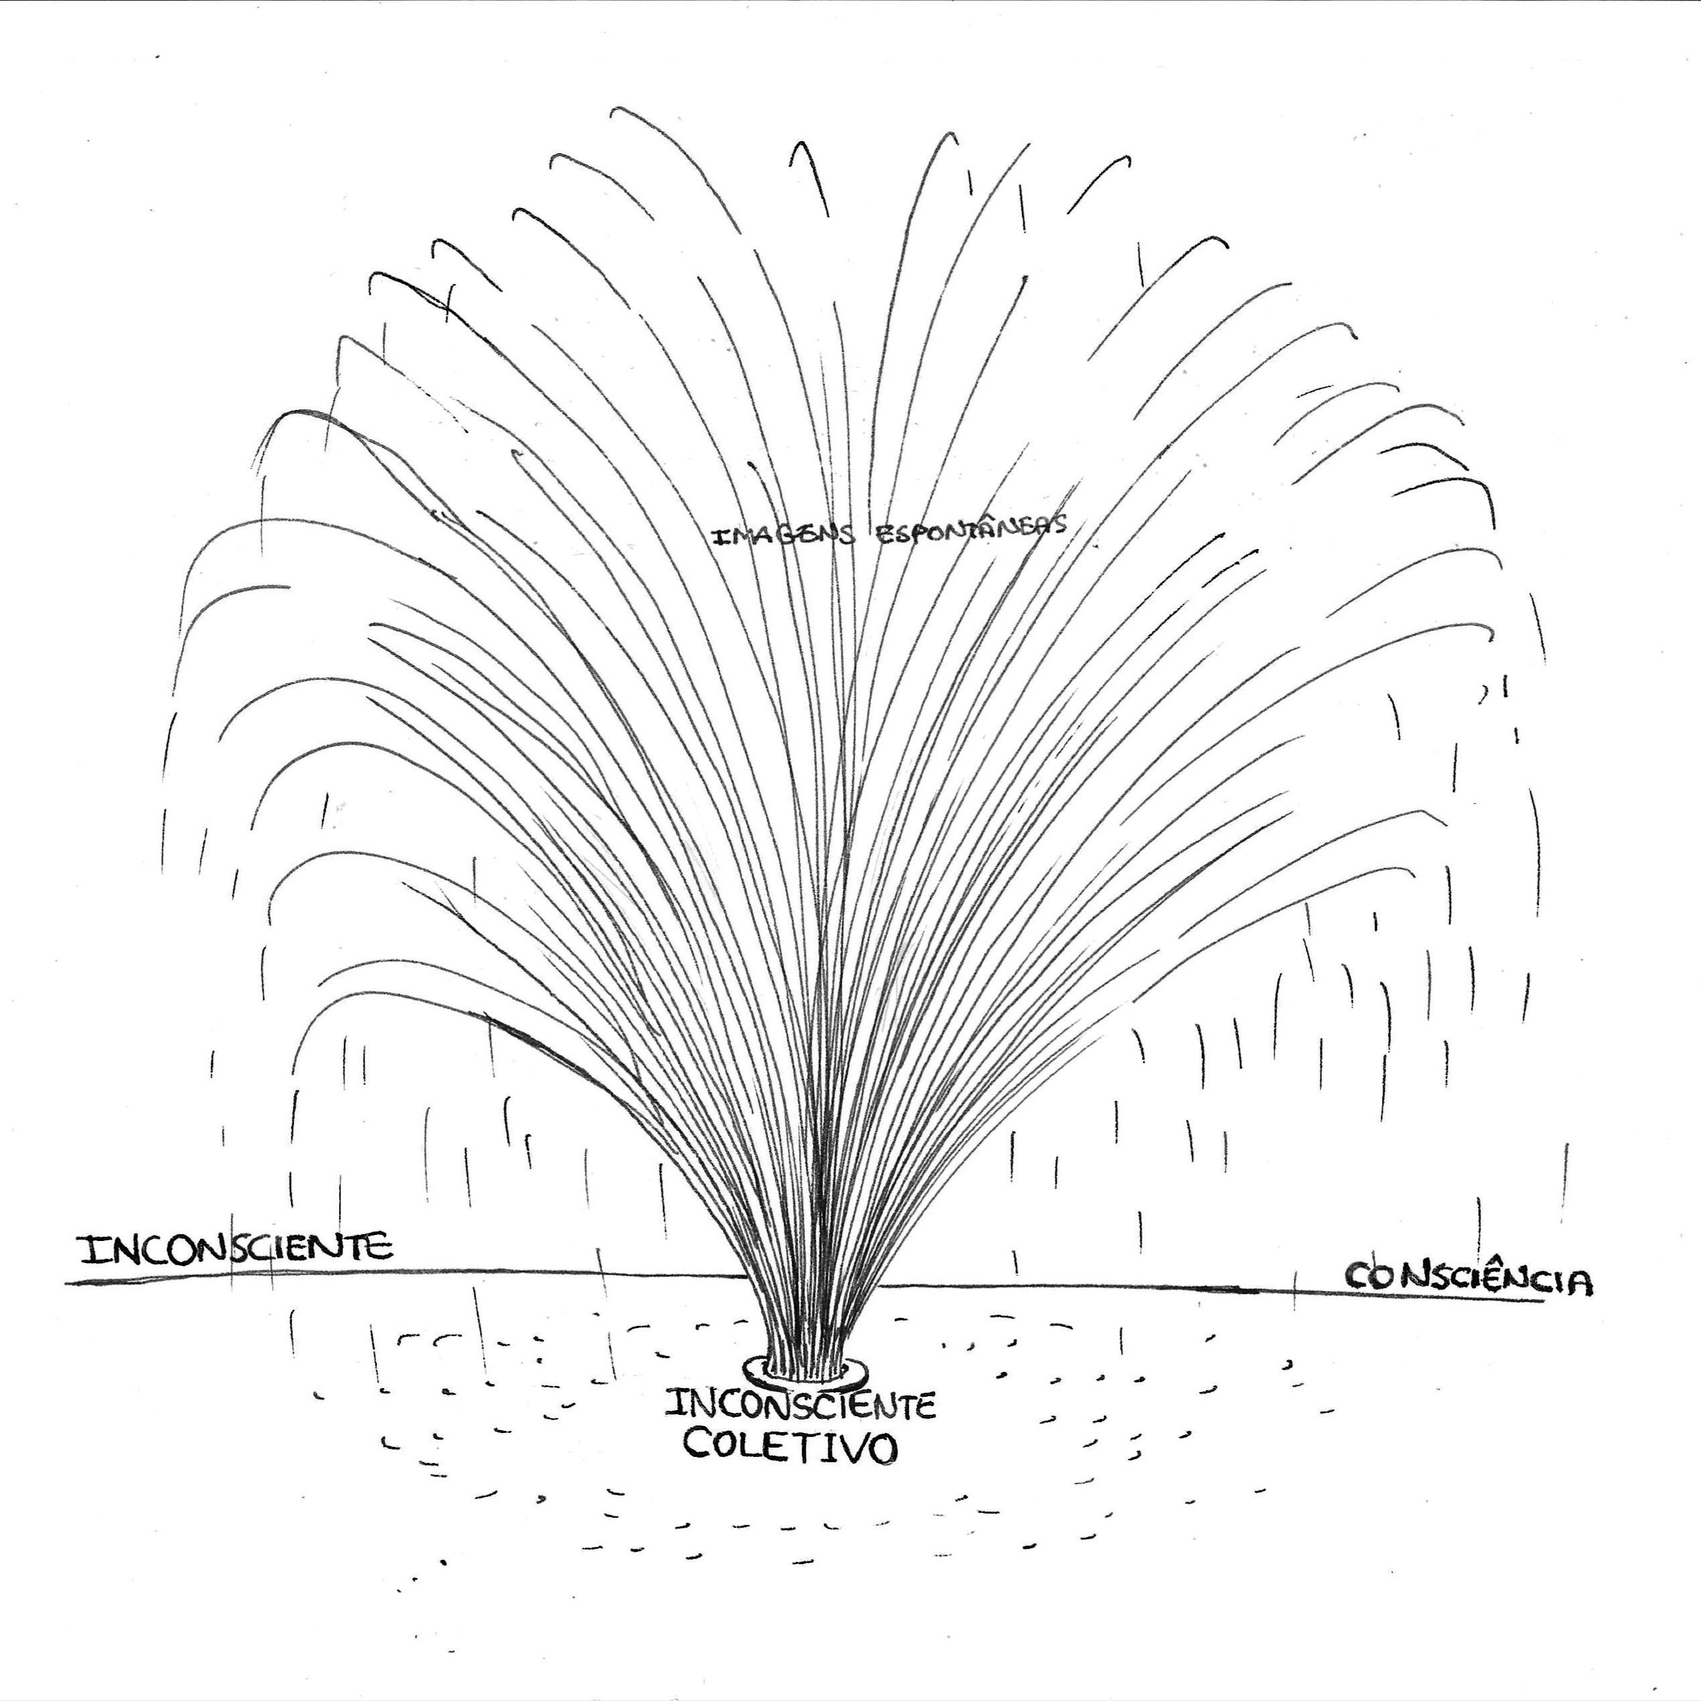
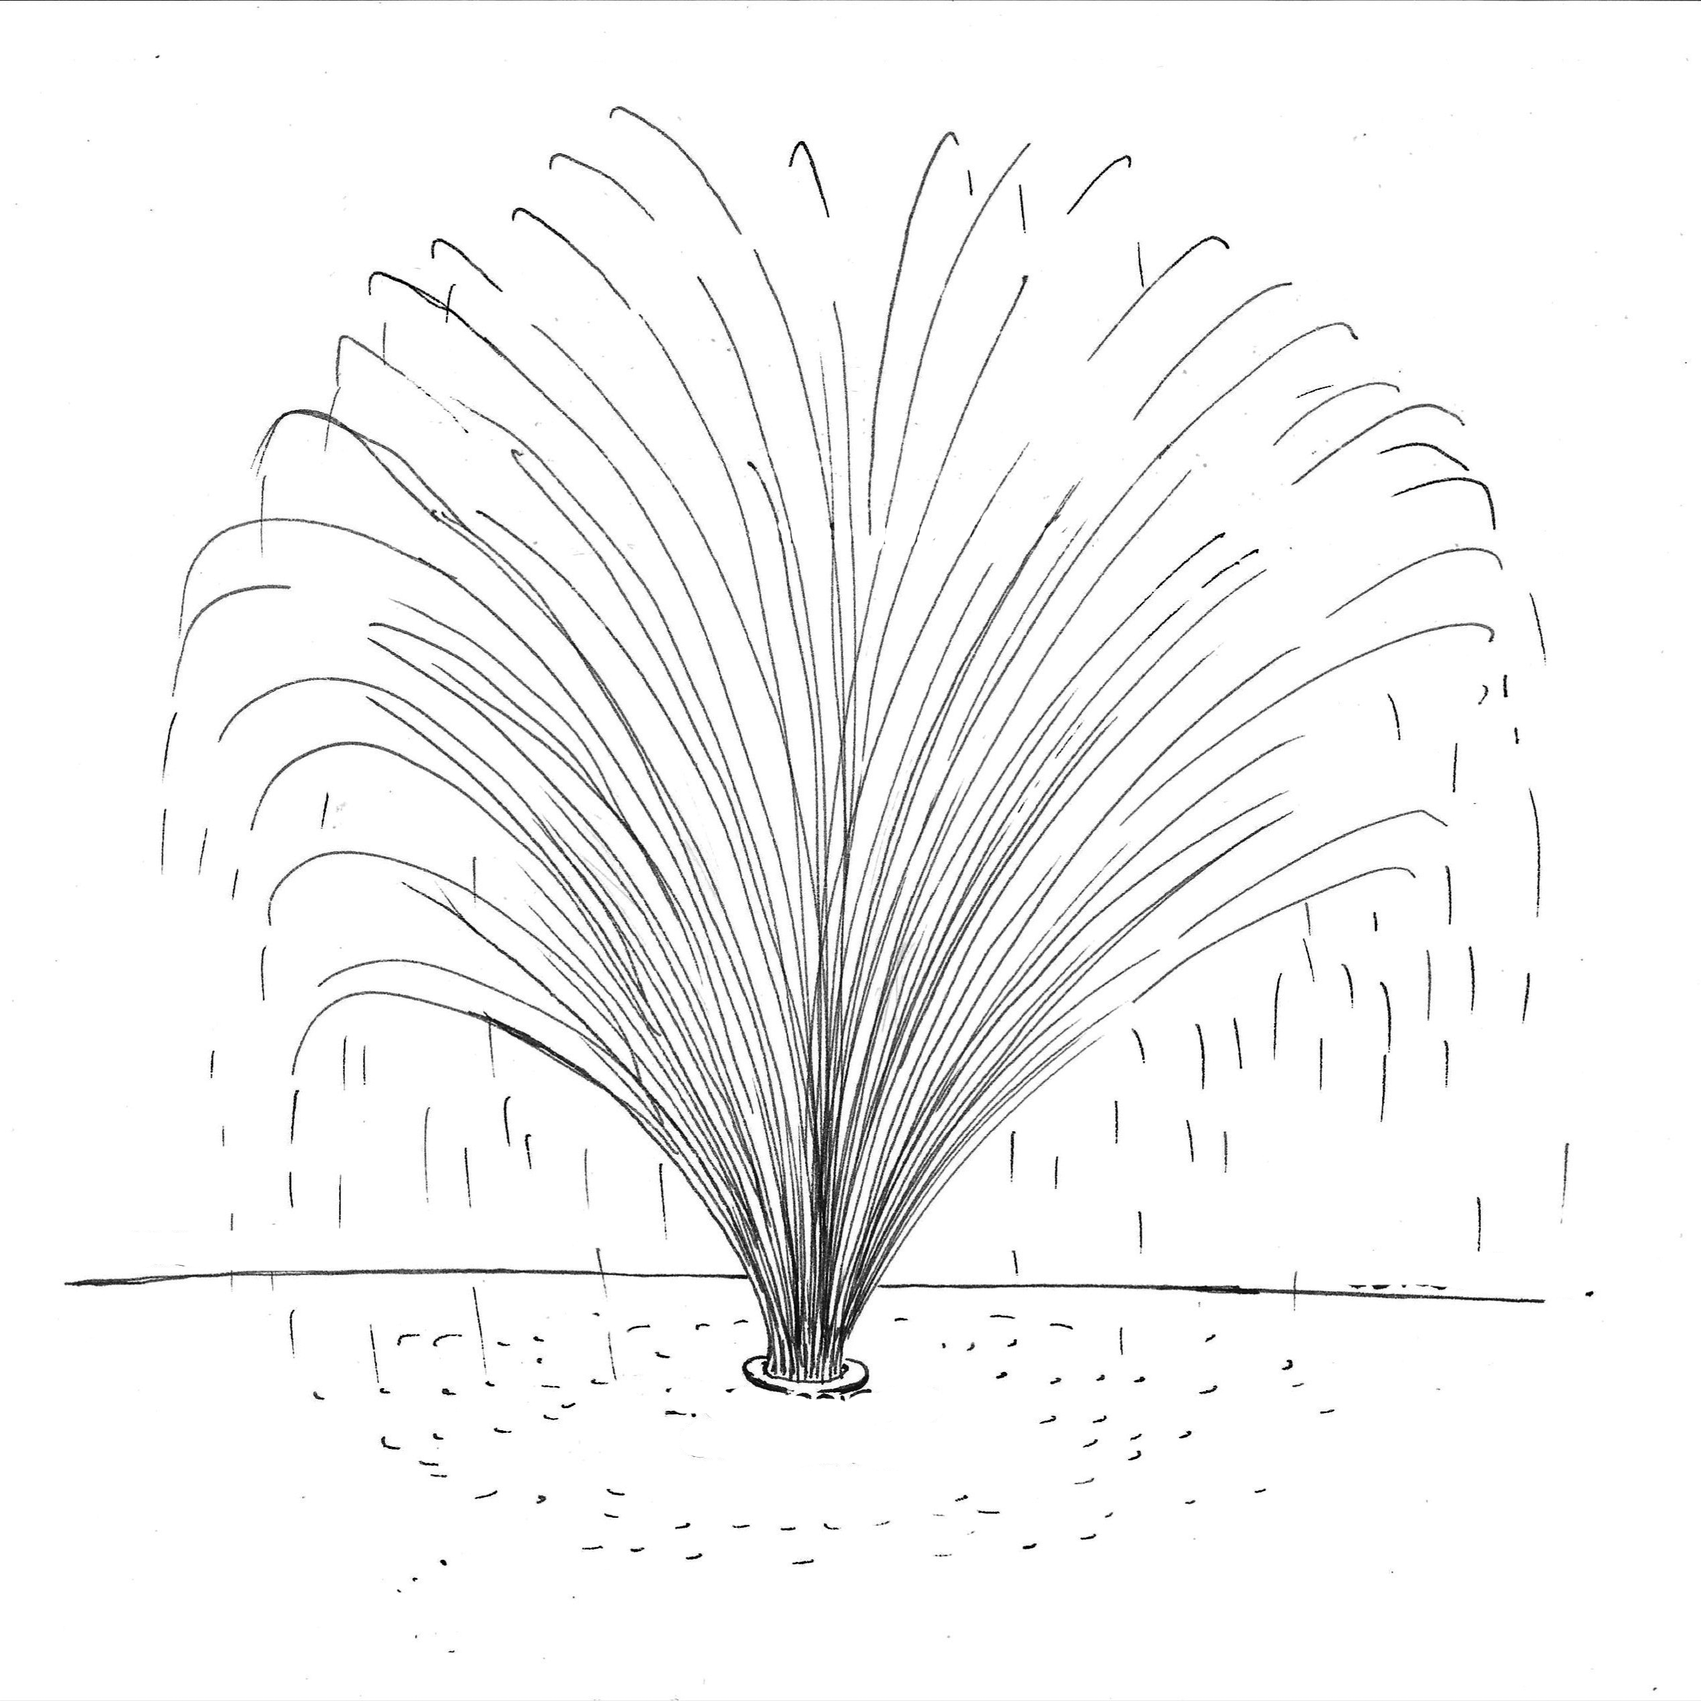
Textos das ilustrações em tipografia (Poppins) em vez de manuscritos
- Imagens TG (sem texto) substituem as originais; rótulos recriados em HTML
  e presos à geometria de cada camada (acompanham a aparição/transição).
- Refeitas em HTML: chamada 'Mas…', características da consciência,
  relação com o Eu e funções ectopsíquicas.
- Nova frase sobre as nuvens do slide Inconsciente Coletivo (Desenvolvimento).
- Poppins com itálico para as ênfases.

Claude-Session: https://claude.ai/code/session_01KQrRk67UoyqbA6z3KHVVJk

diff --git a/index.html b/index.html
@@ -6,7 +6,7 @@
 <title>Estrutura e Dinâmica da Psique</title>
 <link rel="preconnect" href="https://fonts.googleapis.com">
 <link rel="preconnect" href="https://fonts.gstatic.com" crossorigin>
-<link href="https://fonts.googleapis.com/css2?family=EB+Garamond:ital,wght@0,400;0,600;1,400&family=Poppins:wght@400;500;600;700&display=swap" rel="stylesheet">
+<link href="https://fonts.googleapis.com/css2?family=EB+Garamond:ital,wght@0,400;0,600;1,400&family=Poppins:ital,wght@0,400;0,500;0,600;0,700;1,400;1,500&display=swap" rel="stylesheet">
 <style>
   :root{
     --bg: #f2ece0;
@@ -159,6 +159,63 @@
      cada uma calculada a partir do tamanho real da ilustração-fonte. */
   #canvas-wrap-dev-a{ --ar: 1.40336; } /* 2672/1904 */
   #canvas-wrap-dev-b{ --ar: 1.13395; } /* 1600/1411 (ilustração colorida) */
+
+  /* ---- Textos em tipografia sobre as ilustrações ----
+     Cada camada com texto vira uma caixa (.lyr-box) que também é um
+     "container": as medidas internas usam cqw (% da largura da própria
+     camada), então o texto acompanha a ilustração em qualquer tela. */
+  .lyr-box{ container-type:inline-size; }
+  .lyr-img{ position:absolute; inset:0; width:100%; height:100%; object-fit:contain; display:block; }
+  .lt{
+    position:absolute; white-space:nowrap; pointer-events:none;
+    font-family:'Poppins', sans-serif; font-weight:500; line-height:1.2;
+    color:var(--ink); text-align:center; letter-spacing:0;
+    transform: translate(-50%,-50%) rotate(var(--r,0deg));
+  }
+  .lt.l{ text-align:left; transform: translate(0,-50%) rotate(var(--r,0deg)); transform-origin:0 50%; }
+  .lt.b{ font-weight:700; }
+  .lt.lite{ color:#fbf6ea; }
+  .lt.soft{ color:#3b5648; }
+  .lt.halo{ text-shadow: 0 0 .3cqw var(--canvas-bg), 0 0 .3cqw var(--canvas-bg), 0 0 .8cqw var(--canvas-bg); }
+  .lt.sky{ color:#fbf6ea; text-shadow: 0 .15cqw .5cqw rgba(10,22,46,.95), 0 0 1.5cqw rgba(10,22,46,.7); }
+  .lt i{ font-style:italic; }
+  .lt small{ font-size:.62em; font-weight:500; }
+  /* chamada "Mas…" (Atitude e Desenvolvimento) */
+  .cbox{
+    position:absolute; left:9%; top:14.5%; width:81.5%; height:76%;
+    border-style:solid; border-color:var(--ink);
+    border-width:.5cqw 1.2cqw 1.2cqw .5cqw;
+    border-radius:.5cqw .9cqw .5cqw .7cqw;
+    background:rgba(255,255,255,.4);
+  }
+  /* Características da consciência */
+  .l2{ position:absolute; inset:0; color:var(--ink); font-family:'Poppins',sans-serif; font-weight:500; line-height:1.22; }
+  .l2 .row{ position:absolute; left:2%; display:flex; gap:.28em; align-items:flex-start; white-space:nowrap; }
+  .l2 .bul{ flex:none; width:.95em; height:.95em; margin-top:.12em; }
+  /* Relação com o Eu */
+  .axis{ position:absolute; inset:0; width:100%; height:100%; color:var(--ink); overflow:visible; }
+  /* Funções ectopsíquicas */
+  .f5{ position:absolute; inset:0; color:var(--ink); font-family:'Poppins',sans-serif; }
+  .f5-head{ position:absolute; left:1%; top:.4%; margin:0; font-weight:500; line-height:1.24; white-space:nowrap; }
+  .f5-head u{ text-decoration:underline; text-decoration-thickness:.6cqw; text-underline-offset:.5cqw; text-decoration-skip-ink:none; }
+  .f5-box{ position:absolute; display:flex; align-items:center; justify-content:center; font-weight:700; letter-spacing:.02em; line-height:1; }
+  .f5-box.pur{ background:#915bd8; color:#fff; }
+  .f5-box.tea{ background:#85b8aa; color:#1f2a26; box-shadow: inset 0 0 0 .3cqw rgba(31,42,38,.4); }
+  .f5-box span{ white-space:nowrap; display:block; }
+  .f5-box .rot-l{ transform:rotate(-90deg); }
+  .f5-box .rot-r{ transform:rotate(90deg); }
+  .f5-arm{ position:absolute; background:#34453e; border-radius:.7cqw; display:block; }
+  .f5-oval{
+    position:absolute; border-radius:50%; border:.6cqw solid #3a4a42;
+    display:flex; align-items:center; justify-content:center;
+    background:
+      radial-gradient(ellipse 34% 58% at 24% 64%, #915bd8 0 66%, transparent 70%),
+      radial-gradient(ellipse 20% 62% at 73% 28%, #915bd8 0 62%, transparent 68%),
+      #85b8aa;
+    box-shadow: inset 0 0 2cqw rgba(50,25,95,.35);
+    color:#1c1530; font-weight:600; line-height:1;
+  }
+  .f5-oval span{ white-space:nowrap; }
   .layer, .dev-layer{
     position:absolute;
     width:100%; height:100%; top:0; left:0;
@@ -878,6 +935,7 @@
     <div class="stage">
       <div class="canvas-wrap" id="canvas-wrap-ic">
         <img class="ic-bg" src="Inconsciente_Coletivo.png" alt="Inconsciente Coletivo">
+        <div class="lyr-box" id="ic-labels" style="position:absolute;inset:0;pointer-events:none;"></div>
         <div class="ic-penumbra" id="ic-penumbra"></div>
         <div class="ic-line" id="ic-line"></div>
         <!-- círculos de complexos e do eu injetados via JS -->
@@ -1003,10 +1061,10 @@
 
 const LAYERS = [
   { step:1, src:'layer-01-titulo.png',        left:4.566,  top:7.233,  width:20.776, height:32.587 },
-  { step:2, src:'layer-02-caracteristicas.png',left:21.233, top:14.583, width:14.840, height:25.354 },
-  { step:3, src:'layer-03-relacao-eu.png',     left:1.712,  top:11.950, width:7.192,  height:32.153 },
+  { step:2, id:'layer-02-caracteristicas',left:21.233, top:14.583, width:14.840, height:25.354 },
+  { step:3, id:'layer-03-relacao-eu',     left:1.712,  top:11.950, width:7.192,  height:32.153 },
   { step:3, src:'layer-04-eu.png',             left:0.913,  top:37.933, width:27.854, height:24.331 },
-  { step:4, src:'layer-05-funcoes.png',        left:2.740,  top:65.094, width:29.395, height:34.906 },
+  { step:4, id:'layer-05-funcoes',        left:2.740,  top:65.094, width:29.395, height:34.906 },
   { step:5, src:'layer-06-progressao.png',     left:34.019, top:23.585, width:33.533, height:17.138 },
   { step:6, src:'layer-07-diferenciacao.png',  left:49.572, top:14.465, width:15.526, height:29.512 },
   { step:7, src:'layer-08-porta.png',          left:27.140, top:0,      width:72.860, height:100 },
@@ -1110,7 +1168,8 @@ const DEV_LAYERS = [
   // Slide "Atitude e Desenvolvimento" (canvas 2672×1904)
   { slide:7, canvas:'canvas-wrap-dev-a', src:'dev-a-01-visao-do-eu.png', left:0, top:0, width:100, height:100, showAt:1, hideAt:2 },
   { slide:7, canvas:'canvas-wrap-dev-a', src:'dev-a-02-visao-real.png',  left:0, top:0, width:100, height:100, showAt:2 },
-  { slide:7, canvas:'canvas-wrap-dev-a', src:'dev-a-03-chamada.png',     left:72.942, top:77.153, width:24.139, height:22.216, showAt:4 },
+  { slide:7, canvas:'canvas-wrap-dev-a', id:'dev-a-label', left:0, top:0, width:100, height:100, showAt:1 },
+  { slide:7, canvas:'canvas-wrap-dev-a', id:'dev-a-03-chamada',         left:72.942, top:77.153, width:24.139, height:22.216, showAt:4 },
   // Slide "Individuação" (canvas 3504×2544, mesma proporção da Consciência).
   // Posições das figuras medidas por correlação de template contra "Composição final.png"
   // (encaixe exato, escala 1:1). A cabeça do Si-mesmo entra por trás das figuras no passo 6.
@@ -1263,36 +1322,61 @@ const bottomHint = document.getElementById('bottom-hint');
 const slideEls = document.querySelectorAll('.slide-view'); // ordem = ordem de SLIDES
 const COMIC_SLIDE_INDEX = { 4:'slide-quadrinhos-a', 5:'slide-quadrinhos-b', 6:'slide-quadrinhos-c' };
 
+/* Textos das ilustrações, em tipografia. x/y = centro (ou borda esquerda em .l) em % da camada;
+   fs = tamanho em cqw (% da largura da camada); r = rotação em graus. */
+const LAYER_TEXT = {"dev-a-label":{"texts":[{"h":"CONSCIÊNCIA<br>DO EU <small>(unilateralidade)</small>","x":15.6,"y":58.1,"fs":1.97,"c":"b"}]},"dev-a-01-visao-do-eu":{"texts":[{"h":"como o eu vê o<br>desenvolvimento…","x":39.2,"y":40.0,"fs":2.19}]},"dev-a-02-visao-real":{"texts":[{"h":"Como o desenvolvimento<br>realmente ocorre…","x":86.4,"y":34.7,"fs":1.74}]},"dev-b-02-coletivo-cor":{"texts":[{"h":"Nosso desenvolvimento é <i>sempre</i> individual,<br>sociocultural <i>e</i> condicionado por<br>nossas predisposições humanas.","x":50,"y":11.2,"fs":3.11,"c":"sky","lh":1.3}]},"ic":{"texts":[{"h":"IMAGENS ESPONTÂNEAS","x":53.6,"y":31.6,"fs":2.04,"r":1.5,"c":"halo"},{"h":"INCONSCIENTE","x":13.8,"y":73.3,"fs":2.62,"c":"b halo"},{"h":"CONSCIÊNCIA","x":86.2,"y":74.9,"fs":2.2,"r":2,"c":"b halo"},{"h":"INCONSCIENTE<br>COLETIVO","x":47.0,"y":83.8,"fs":2.22,"c":"b halo","lh":1.15}]},"layer-04-eu":{"texts":[{"h":"(ego)","x":45.2,"y":30.3,"fs":4.66},{"h":"imagem<br>de si","x":22.8,"y":43.9,"fs":3.82,"r":-32},{"h":"VONTADE","x":72.4,"y":37.2,"fs":4.32,"c":"b"},{"h":"(energia<br>disponível)","x":59.3,"y":51.5,"fs":4.86,"a":"l","lh":1.15},{"h":"Memória<br>Voluntária","x":32.6,"y":89.8,"fs":5.6,"a":"l","lh":1.15}]},"layer-06-progressao":{"texts":[{"h":"Atitude Consciente","x":45.3,"y":11.8,"fs":4.16},{"h":"OBSTÁCULO","x":84.4,"y":35.9,"fs":2.62,"c":"b"},{"h":"progressão","x":43.0,"y":55.3,"fs":3.64,"c":"b soft"},{"h":"DIFERENCIAÇÃO","x":22.2,"y":81.2,"fs":3.68}]},"layer-07-diferenciacao":{"texts":[{"h":"Seleção","x":29.5,"y":14.2,"fs":7.72},{"h":"Diferenciação","x":34.7,"y":72.9,"fs":6.54},{"h":"Exclusão","x":75.6,"y":90.3,"fs":8.21,"c":"lite"}]},"layer-08-porta":{"texts":[{"h":"UNILATERALIDADE","x":57.0,"y":18.6,"fs":1.58,"r":-29,"c":"b"},{"h":"VAMOS PENSAR<br>SOBRE A <b>CONDIÇÃO</b><br>DA <b>CONSCIÊNCIA</b>","x":83.4,"y":28.5,"fs":1.74,"lh":1.25},{"h":"Esta figura sombria<br>é importante","x":72.2,"y":47.7,"fs":1.79},{"h":"<b>COMPLEXOS</b><br>vocês já os<br>conhecem,<br>não os esqueçam","x":67.7,"y":73.8,"fs":1.68,"a":"l","c":"lite","lh":1.15},{"h":"Exclusão","x":46.9,"y":41.1,"fs":1.96,"c":"lite"},{"h":"DISSOCIAÇÃO","x":27.2,"y":49.0,"fs":1.87,"r":-36},{"h":"Lembrem<br>desta imagem","x":32.8,"y":80.3,"fs":2.25,"r":-3,"c":"lite"}]},"dev-a-03-chamada":{"html":"<div class=\"cbox\"></div>","texts":[{"h":"Mas…<br>…e quando o<br>eu ainda não<br>está consolidado?","x":15.5,"y":52.5,"fs":6.91,"a":"l","lh":1.3}]},"layer-02-caracteristicas":{"html":"<div class=\"l2\" style=\"font-size:9.0cqw\"><div class=\"row\" style=\"top:4.5%\"><svg class=\"bul\" viewBox=\"0 0 16 16\" aria-hidden=\"true\"><path d=\"M3 1.5V12.5H13.2M10.2 9.2L13.4 12.5L10.2 15.7\" fill=\"none\" stroke=\"currentColor\" stroke-width=\"1.7\" stroke-linecap=\"round\" stroke-linejoin=\"round\"/></svg><div class=\"rt\">Intermitente</div></div><div class=\"row\" style=\"top:18.5%\"><svg class=\"bul\" viewBox=\"0 0 16 16\" aria-hidden=\"true\"><path d=\"M3 1.5V12.5H13.2M10.2 9.2L13.4 12.5L10.2 15.7\" fill=\"none\" stroke=\"currentColor\" stroke-width=\"1.7\" stroke-linecap=\"round\" stroke-linejoin=\"round\"/></svg><div class=\"rt\">Poucas informações<br>por vez</div></div><div class=\"row\" style=\"top:42.5%\"><svg class=\"bul\" viewBox=\"0 0 16 16\" aria-hidden=\"true\"><path d=\"M3 1.5V12.5H13.2M10.2 9.2L13.4 12.5L10.2 15.7\" fill=\"none\" stroke=\"currentColor\" stroke-width=\"1.7\" stroke-linecap=\"round\" stroke-linejoin=\"round\"/></svg><div class=\"rt\">campo<br>fenomenológico<br>(imagens)</div></div><div class=\"row\" style=\"top:73.5%\"><svg class=\"bul\" viewBox=\"0 0 16 16\" aria-hidden=\"true\"><path d=\"M3 1.5V12.5H13.2M10.2 9.2L13.4 12.5L10.2 15.7\" fill=\"none\" stroke=\"currentColor\" stroke-width=\"1.7\" stroke-linecap=\"round\" stroke-linejoin=\"round\"/></svg><div class=\"rt\">Órgão adaptativo<br>da psique</div></div></div>"},"layer-03-relacao-eu":{"html":"<svg class=\"axis\" viewBox=\"0 0 252 818\" preserveAspectRatio=\"none\" aria-hidden=\"true\"><path d=\"M83 29L53 35L80 776\" fill=\"none\" stroke=\"currentColor\" stroke-width=\"3.6\" stroke-linecap=\"round\" stroke-linejoin=\"round\"/><path d=\"M80 786H226\" fill=\"none\" stroke=\"currentColor\" stroke-width=\"3.6\" stroke-linecap=\"round\"/><path d=\"M222 766L248 786L222 805Z\" fill=\"currentColor\"/></svg>","texts":[{"h":"Conteúdos relacionados com o eu","x":14.5,"y":51.0,"fs":14.8,"r":-90}]},"layer-05-funcoes":{"html":"<div class=\"f5\"><p class=\"f5-head\" style=\"font-size:5.35cqw\">os conteúdos psíquicos aparecem<br>na consciência como <u><b>IMAGENS</b></u> que<br>se configuram segundo quatro<br><u><b>FUNÇÕES ECTOPSÍQUICAS</b></u></p><i class=\"f5-arm\" style=\"left:15.0%;top:62.2%;width:5.6%;height:2.6%\"></i><i class=\"f5-arm\" style=\"left:54.2%;top:62.2%;width:5.4%;height:2.6%\"></i><i class=\"f5-arm\" style=\"left:37.3%;top:45.6%;width:1.6%;height:7.2%\"></i><i class=\"f5-arm\" style=\"left:36.6%;top:76.0%;width:1.6%;height:6.4%\"></i><div class=\"f5-oval\" style=\"left:19.6%;top:50.8%;width:36.6%;height:25.8%\"><span style=\"font-size:6.2cqw\">Imagem</span></div><div class=\"f5-box pur\" style=\"left:24.1%;top:35.5%;width:31.4%;height:10.3%\"><span style=\"font-size:4.9cqw\">SENSAÇÃO</span></div><div class=\"f5-box pur\" style=\"left:22.6%;top:82.1%;width:30.7%;height:11%\"><span style=\"font-size:4.9cqw\">INTUIÇÃO</span></div><div class=\"f5-box tea\" style=\"left:3.9%;top:41.8%;width:9.1%;height:41.8%\"><span class=\"rot-l\" style=\"font-size:4.5cqw\">PENSAMENTO</span></div><div class=\"f5-box tea\" style=\"left:65.3%;top:43.9%;width:8.9%;height:41.5%\"><span class=\"rot-r\" style=\"font-size:4.5cqw\">SENTIMENTO</span></div></div>","texts":[{"h":"Há algo","x":59.8,"y":40.6,"fs":3.6,"a":"l"},{"h":"O que é?","x":3.9,"y":37.0,"fs":3.5,"a":"l"},{"h":"O valor<br>relativo","x":77.6,"y":64.5,"fs":3.25,"a":"l","lh":1.15},{"h":"As conexões<br>que faz","x":58.0,"y":92.6,"fs":3.6,"a":"l","lh":1.15}]}};
+
+function layerId(L){ return L.id || L.src.replace(/\.[a-z]+$/,''); }
+function makeTextEl(T){
+  const d = document.createElement('div');
+  d.className = 'lt' + (T.a === 'l' ? ' l' : '') + (T.c ? ' ' + T.c : '');
+  d.style.left = T.x + '%'; d.style.top = T.y + '%'; d.style.fontSize = T.fs + 'cqw';
+  if(T.r) d.style.setProperty('--r', T.r + 'deg');
+  if(T.lh) d.style.lineHeight = T.lh;
+  d.innerHTML = T.h;
+  return d;
+}
+// monta o elemento de uma camada: <img> simples, ou caixa com imagem + HTML + textos
+function makeLayerEl(L, baseClass){
+  const X = LAYER_TEXT[layerId(L)];
+  let el;
+  if(!X){
+    el = document.createElement('img'); el.src = L.src; el.alt = '';
+  }else{
+    el = document.createElement('div');
+    el.classList.add('lyr-box');
+    if(L.src){
+      const im = document.createElement('img'); im.src = L.src; im.alt = ''; im.className = 'lyr-img';
+      el.appendChild(im);
+    }
+    if(X.html) el.insertAdjacentHTML('beforeend', X.html);
+    (X.texts || []).forEach(T => el.appendChild(makeTextEl(T)));
+  }
+  el.classList.add(baseClass);
+  el.style.left = L.left + '%'; el.style.top = L.top + '%';
+  el.style.width = L.width + '%'; el.style.height = L.height + '%';
+  return el;
+}
+
 // build layer <img> elements
-LAYERS.forEach((L, idx) => {
-  const img = document.createElement('img');
-  img.src = L.src;
-  img.className = 'layer';
-  img.dataset.step = L.step;
-  img.style.left = L.left + '%';
-  img.style.top = L.top + '%';
-  img.style.width = L.width + '%';
-  img.style.height = L.height + '%';
-  img.alt = 'camada ' + (idx+1);
-  canvasWrap.appendChild(img);
+LAYERS.forEach((L) => {
+  const el = makeLayerEl(L, 'layer');
+  el.dataset.step = L.step;
+  canvasWrap.appendChild(el);
 });
 
 // build layer <img> elements do módulo Desenvolvimento Consciente
 DEV_LAYERS.forEach((L) => {
-  const img = document.createElement('img');
-  img.src = L.src;
-  img.className = 'dev-layer';
-  img.dataset.slide = L.slide;
-  img.dataset.show = L.showAt;
-  if(L.hideAt) img.dataset.hide = L.hideAt;
-  if(L.fade) img.classList.add('fade-only');
-  img.style.left = L.left + '%';
-  img.style.top = L.top + '%';
-  img.style.width = L.width + '%';
-  img.style.height = L.height + '%';
-  img.alt = L.src;
-  document.getElementById(L.canvas).appendChild(img);
+  const el = makeLayerEl(L, 'dev-layer');
+  el.dataset.slide = L.slide;
+  el.dataset.show = L.showAt;
+  if(L.hideAt) el.dataset.hide = L.hideAt;
+  if(L.fade) el.classList.add('fade-only');
+  document.getElementById(L.canvas).appendChild(el);
 });
+
+// rótulos do Inconsciente Coletivo (texto em tipografia sobre a ilustração)
+LAYER_TEXT.ic.texts.forEach(T => document.getElementById('ic-labels').appendChild(makeTextEl(T)));
 
 // hotspots circulares do módulo Desenvolvimento Consciente (depois das camadas)
 DEV_HOTSPOTS.forEach((H) => {
